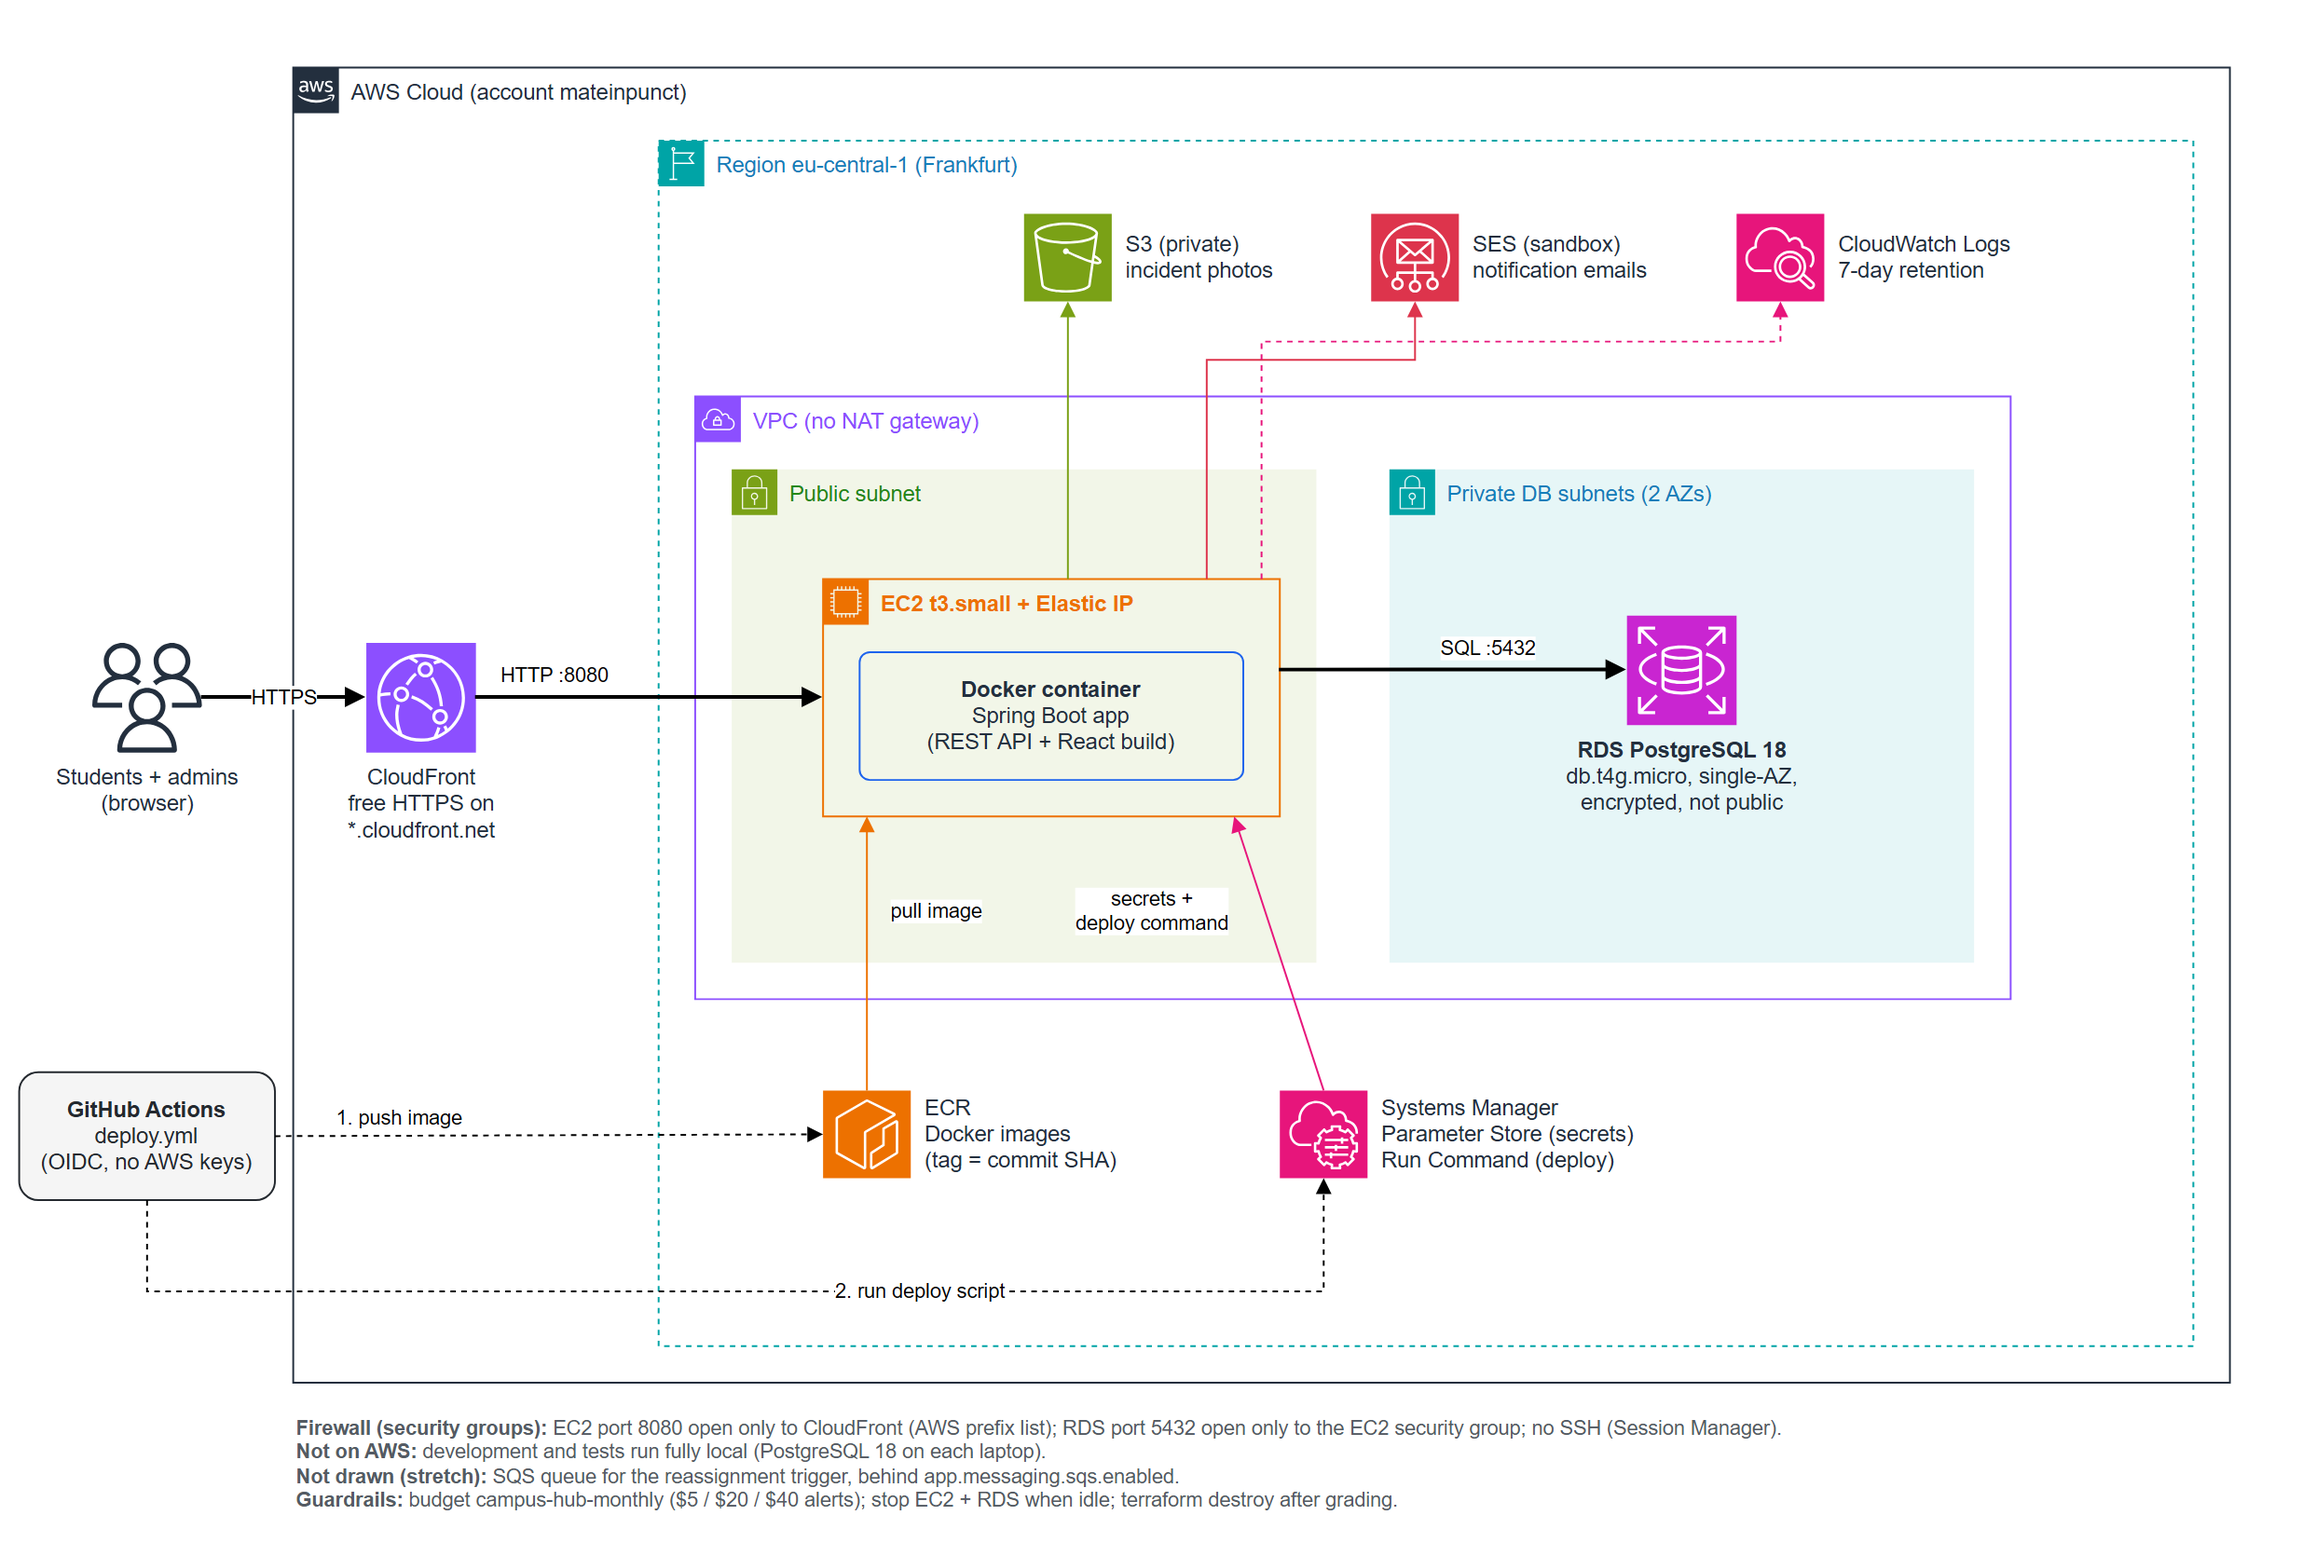
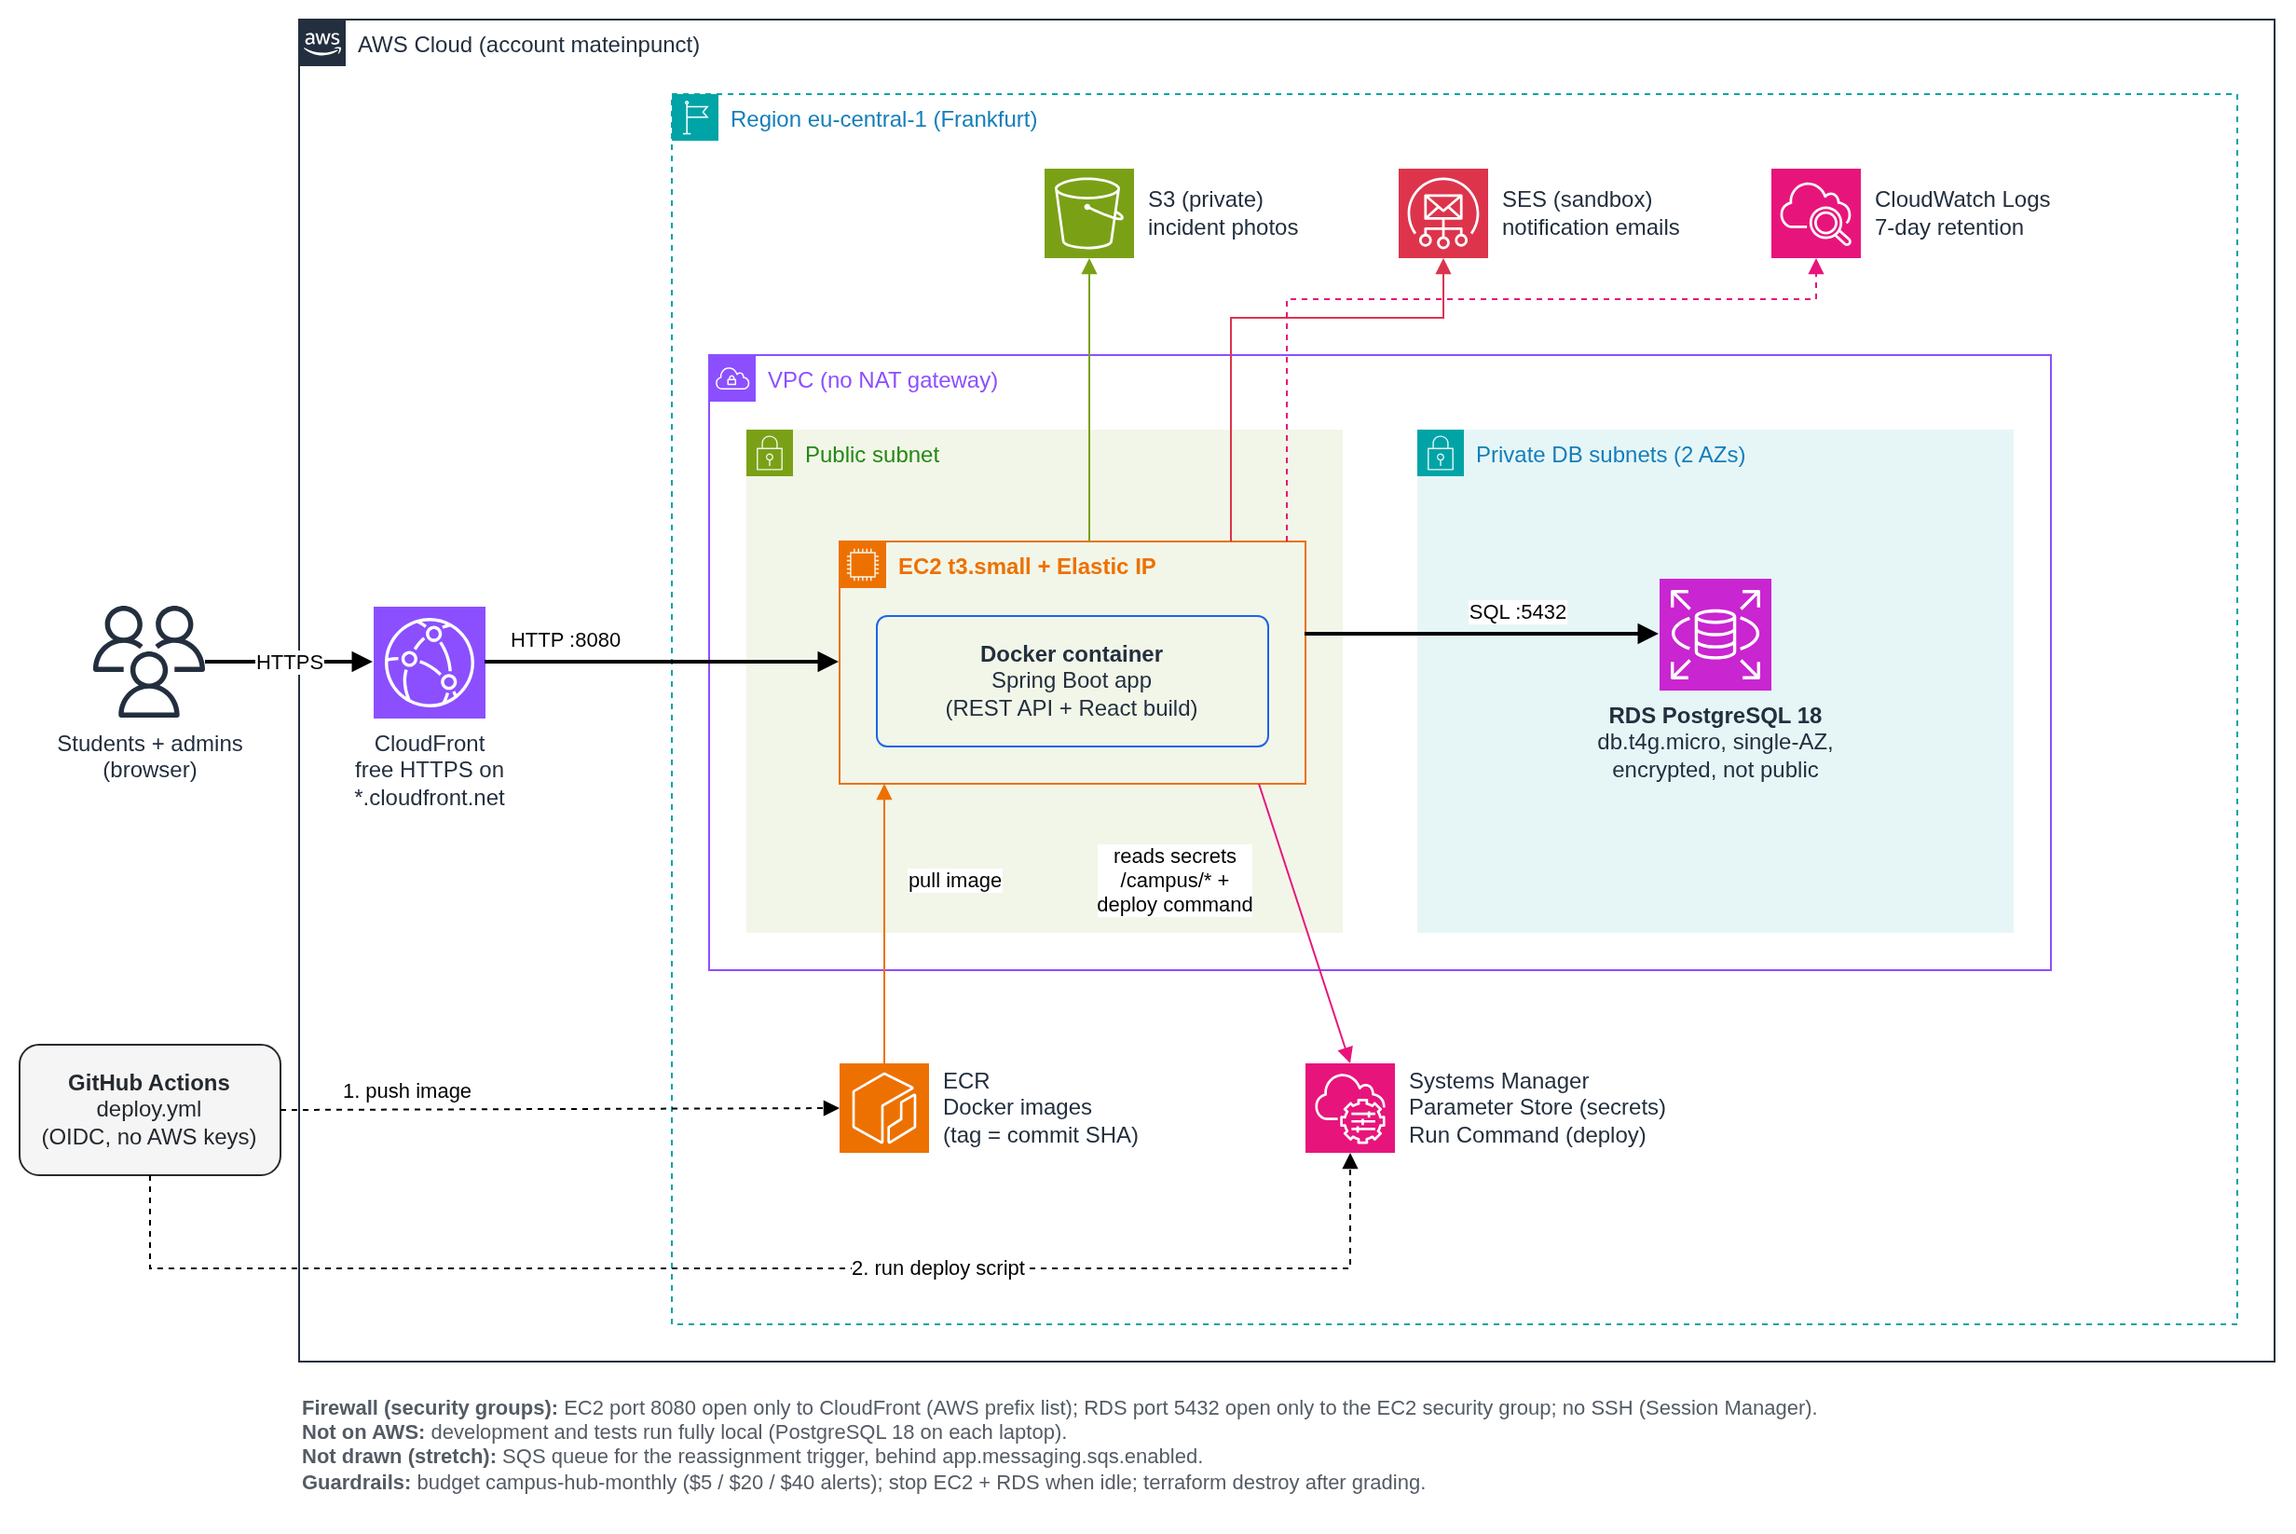
docs(diagrams): export the AWS diagram PNG again with the EC2 to SSM arrow

diff --git a/documentation/Necula_Matei/37-contract-security-rules.md b/documentation/Necula_Matei/37-contract-security-rules.md
@@ -26,7 +26,7 @@
 |---|---|
 | `docs/api-contract.md` §2 | Rules table: 5 → 8 rows (`/error`, `denyAll` for `/api/**` + `/actuator/**`, public `GET /**` for the SPA, `denyAll` fallback); new "Refused" column (status + `code`); new table of the checks that run before the rules |
 | `docs/diagrams/aws-architecture.drawio` | Edge `e-ssm-ec2` (SSM → EC2) replaced by `e-ec2-ssm` (EC2 → SSM), label "reads secrets /campus/* + deploy command" |
-| `docs/diagrams/aws-architecture.png` | **Not changed: must be re-exported by hand** (see below) |
+| `docs/diagrams/aws-architecture.png` | Exported again from the `.drawio` file, so the picture shows the new arrow too (see below) |
 
 ### The 8 rules (first match wins)
 
@@ -63,4 +63,4 @@ The rows match the RBAC table of the security chapter (`docs/report/security.md`
 
 Only `source`/`target`, the exit/entry points (swapped) and the label position (`x="0.3"` → `x="-0.3"`, so the label stays where it was) changed. The XML was checked with a parser.
 
-**PNG:** draw.io is not installed here and has no headless export, so `aws-architecture.png` still shows the old arrow. **To do by hand:** open the `.drawio` in draw.io (desktop or app.diagrams.net) → File → Export as → PNG (same settings as before), overwrite `docs/diagrams/aws-architecture.png`, commit it to this branch.
+**PNG:** draw.io is not installed on my laptop, so I exported the picture with diagrams.net in a headless browser: the page loads the `.drawio` file in embed mode, and the PNG comes back from its `export` message (scale 2, white background, 10 px border, the same size as before). It now shows the EC2 → Systems Manager arrow. To change the diagram later: open the `.drawio` in draw.io or app.diagrams.net → File → Export as → PNG, overwrite `docs/diagrams/aws-architecture.png`.
